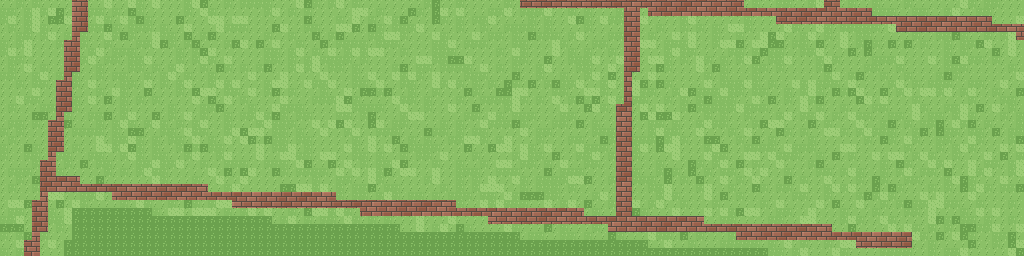
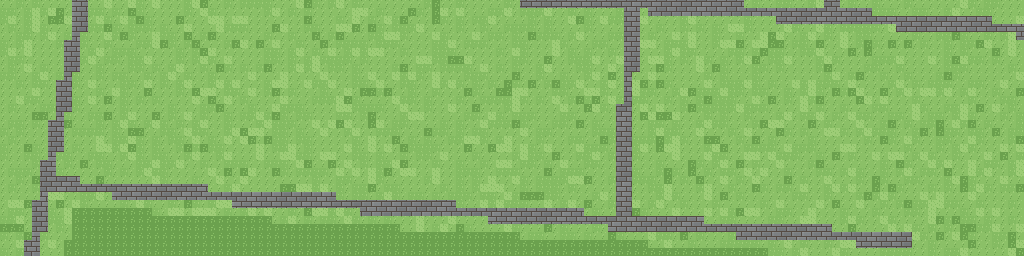
feat(art): 水改成浑绿、红砖路改成青灰石材，向真实校园靠一档
- tools/bake_water_road.py: 水色 4 色映射 + 路面按宽度分级（窄路石材 / 宽路沥青）
- 桥洞水色、bake_channels 的水色常量同步
- 小地图缓存 v21
- README 补本次改动与「改地面图必须重跑 --import」的坑

Changed region(s): [[0.0, 0.0, 1.0, 1.0]]

diff --git a/tools/bake_water_road.py b/tools/bake_water_road.py
@@ -1,0 +1,131 @@
+#!/usr/bin/env python3
+# -*- coding: utf-8 -*-
+"""
+地形调色：把「泳池蓝的水」和「满校园红砖路」改成接近真实校园的材质。
+纯调色板级的改动，不动几何、不加渲染系统 —— 像素游戏里这样改最划算。
+
+1) 水：4 种水色 → 灰绿色系（真实校园湖是浑绿，不是泳池蓝）。
+   亮度顺序保持不变，所以原有的深浅层次/波纹照样在。
+2) 路：红砖 → 石材/沥青。按「路有多宽」自动分级：
+     宽路（>约 3 格）：沥青年色（深灰蓝、几乎无杂色）
+     窄路：青灰色石材铺装（保留原有砖缝纹理，只是换成冷灰）
+   分级用「腐蚀-膨胀」量宽度：先腐蚀若干次，只有够宽的路才留得下核心，
+   再把核心膨胀回原宽度，就得到「宽路区域」。
+
+用法（项目根目录）：
+    python3 tools/bake_water_road.py [--dry]
+
+注意：写完要重跑 tools/build_world_scene.gd 重打包场景（世界里的地面
+Sprite 引用的是这些 PNG），并升 Arena 里的小地图缓存版本号。
+"""
+import os
+import sys
+from PIL import Image, ImageFilter
+
+ROOT = os.path.dirname(os.path.dirname(os.path.abspath(__file__)))
+
+# 旧水色 → 新水色（保持明暗顺序）
+WATER_MAP = {
+    (79, 155, 187): (88, 128, 116),
+    (94, 169, 201): (104, 146, 132),
+    (104, 179, 209): (120, 164, 146),
+    (118, 193, 223): (142, 188, 164),
+}
+
+# 宽路阈值：腐蚀半径（像素）。一格 8px，半径 9px ≈ 路宽 >18px（≈2.2 格）算主路。
+# 调大只会让更少的路被算成沥青（校园里绝大多数路本来就窄）。
+ERODE_R = 9
+
+
+def is_brick(c):
+    r, g, b = c
+    return r > 110 and r > g + 30 and g >= b and g > 55
+
+
+def luma(c):
+    r, g, b = c
+    return 0.299 * r + 0.587 * g + 0.114 * b
+
+
+def paver(c):
+    """窄路：青灰色石材。保留原砖的明暗起伏，只换色相。"""
+    l = luma(c)
+    v = 122.0 + (l - 110.0) * 0.62
+    v = max(100.0, min(172.0, v))
+    return (int(v - 3), int(v + 1), int(v + 3))
+
+
+def asphalt(c):
+    """宽路：沥青年色，杂色压到很窄的一段，看着更"平"。"""
+    l = luma(c)
+    v = 90.0 + (l - 110.0) * 0.16
+    v = max(80.0, min(104.0, v))
+    return (int(v - 1), int(v + 2), int(v + 5))
+
+
+def erode(mask, r):
+    return mask.filter(ImageFilter.MinFilter(r * 2 + 1))
+
+
+def dilate(mask, r):
+    return mask.filter(ImageFilter.MaxFilter(r * 2 + 1))
+
+
+def process(path, dry=False):
+    im = Image.open(path).convert("RGB")
+    px = im.load()
+    w, h = im.size
+
+    # ---- 1) 建三张掩码：水、砖路 ----
+    water = Image.new("L", (w, h), 0)
+    road = Image.new("L", (w, h), 0)
+    wp, rp = water.load(), road.load()
+    for y in range(h):
+        for x in range(w):
+            c = px[x, y]
+            if c in WATER_MAP:
+                wp[x, y] = 255
+            elif is_brick(c):
+                rp[x, y] = 255
+
+    # ---- 2) 宽路 = 腐蚀后的核心再膨胀回去 ----
+    core = erode(road, ERODE_R)
+    wide = dilate(core, ERODE_R)
+    wp2 = wide.load()
+
+    wm = water.load()
+    rmp = road.load()
+    changed = 0
+    for y in range(h):
+        for x in range(w):
+            c = px[x, y]
+            if wm[x, y]:
+                nc = WATER_MAP[c]
+            elif rmp[x, y]:
+                nc = asphalt(c) if wp2[x, y] else paver(c)
+            else:
+                continue
+            if nc != c:
+                px[x, y] = nc
+                changed += 1
+
+    print(f"  {os.path.basename(path)}: {changed} px")
+    if not dry and changed:
+        im.save(path)
+    return changed
+
+
+def main():
+    dry = "--dry" in sys.argv
+    total = 0
+    for cy in range(7):
+        for cx in range(4):
+            p = os.path.join(ROOT, "assets/ground/g%d_%d.png" % (cx, cy))
+            if not os.path.exists(p):
+                continue
+            total += process(p, dry)
+    print("[done] %d px%s" % (total, " (dry)" if dry else ""))
+
+
+if __name__ == "__main__":
+    main()

diff --git a/tools/bake_channels.py b/tools/bake_channels.py
@@ -42,10 +42,13 @@ CELL = 8
 CHUNK = 1024                      # 每块 1024×1024 像素（末列/末行是补边的小块）
 
 # 水面调色板（从烘焙图里采样得到）
-WATER_BASE = (94, 169, 201)
-WATER_LIGHT = (104, 179, 209)
-WATER_DARK = (79, 155, 187)
-WATER_SPARK = (118, 193, 223)
+# 水面 4 色（2026-11-02 之后是"浑绿"版，见 tools/bake_water_road.py）。
+# 改水色时必须同步这里，否则本脚本认不出水面、河道会漏烘。
+_WATER_OLD = {(94, 169, 201), (104, 179, 209), (79, 155, 187), (118, 193, 223)}
+WATER_BASE = (104, 146, 132)
+WATER_LIGHT = (120, 164, 146)
+WATER_DARK = (88, 128, 116)
+WATER_SPARK = (142, 188, 164)
 WATER_COLORS = {WATER_BASE, WATER_LIGHT, WATER_DARK, WATER_SPARK}
 
 SAND = (201, 187, 150)

diff --git a/README.md b/README.md
@@ -106,6 +106,19 @@ xattr -cr 像素工大.app && codesign --force --deep --sign - 像素工大.app
 - 名牌/聊天气泡的字号按 `0.375 / ACTOR_SCALE` 反向补偿，人变小了但字还是原来那么大
 - 想现场对比：`XGD_ACTOR_SCALE=0.22`（更小）/ `0.3`（更大）、`XGD_CAMPUS_SCALE=2.6`、`XGD_ZOOM=0.9`
 
+**水面与路面换成接近真实的材质**（纯调色板，几何没动，像素风没破）。
+
+- 水：4 种"泳池蓝"（94,169,201 / 104,179,209 / 79,155,187 / 118,193,223）
+  → 灰绿色系（104,146,132 / 120,164,146 / 88,128,116 / 142,188,164）。
+  明暗顺序不变，原有的深浅层次和波光还在，只是不再是游泳池
+- 路：满校园的红砖 → 青灰石材铺装（保留原砖缝纹理当石缝）；
+  路宽超过约 2 格的主路再压成沥青年色（`tools/bake_water_road.py` 用腐蚀-膨胀量宽度，
+  不过校园里绝大多数路本来就窄，实际只有少数几条被算成沥青）
+- 桥拱洞里透出的水色（`Bridge.gd` 的 `WATER` 常量）跟着改成新水色
+- 小地图缓存版本 v20 → v21（地面图变了，不升版本会读到旧缓存）
+- ⚠ 改地面图后必须 `godot --headless --path . --import` 重新导入，否则运行时拿到的
+  还是旧的 `.godot/imported/*.ctex`，看着像"改了没生效"（这次就踩了）
+
 > 注意这里只能靠"缩角色"来调比例，不能再往上放大世界：地面图是 8 px/格 的栅格，
 > 校园层缩放一调大，草地/道路的像素块就跟着变粗，而楼不会因此多出细节。
 > 想再往"真实"走，得把地面和楼体贴图按 2 倍分辨率重烘一遍（现在没有生成器，只有备份）。
